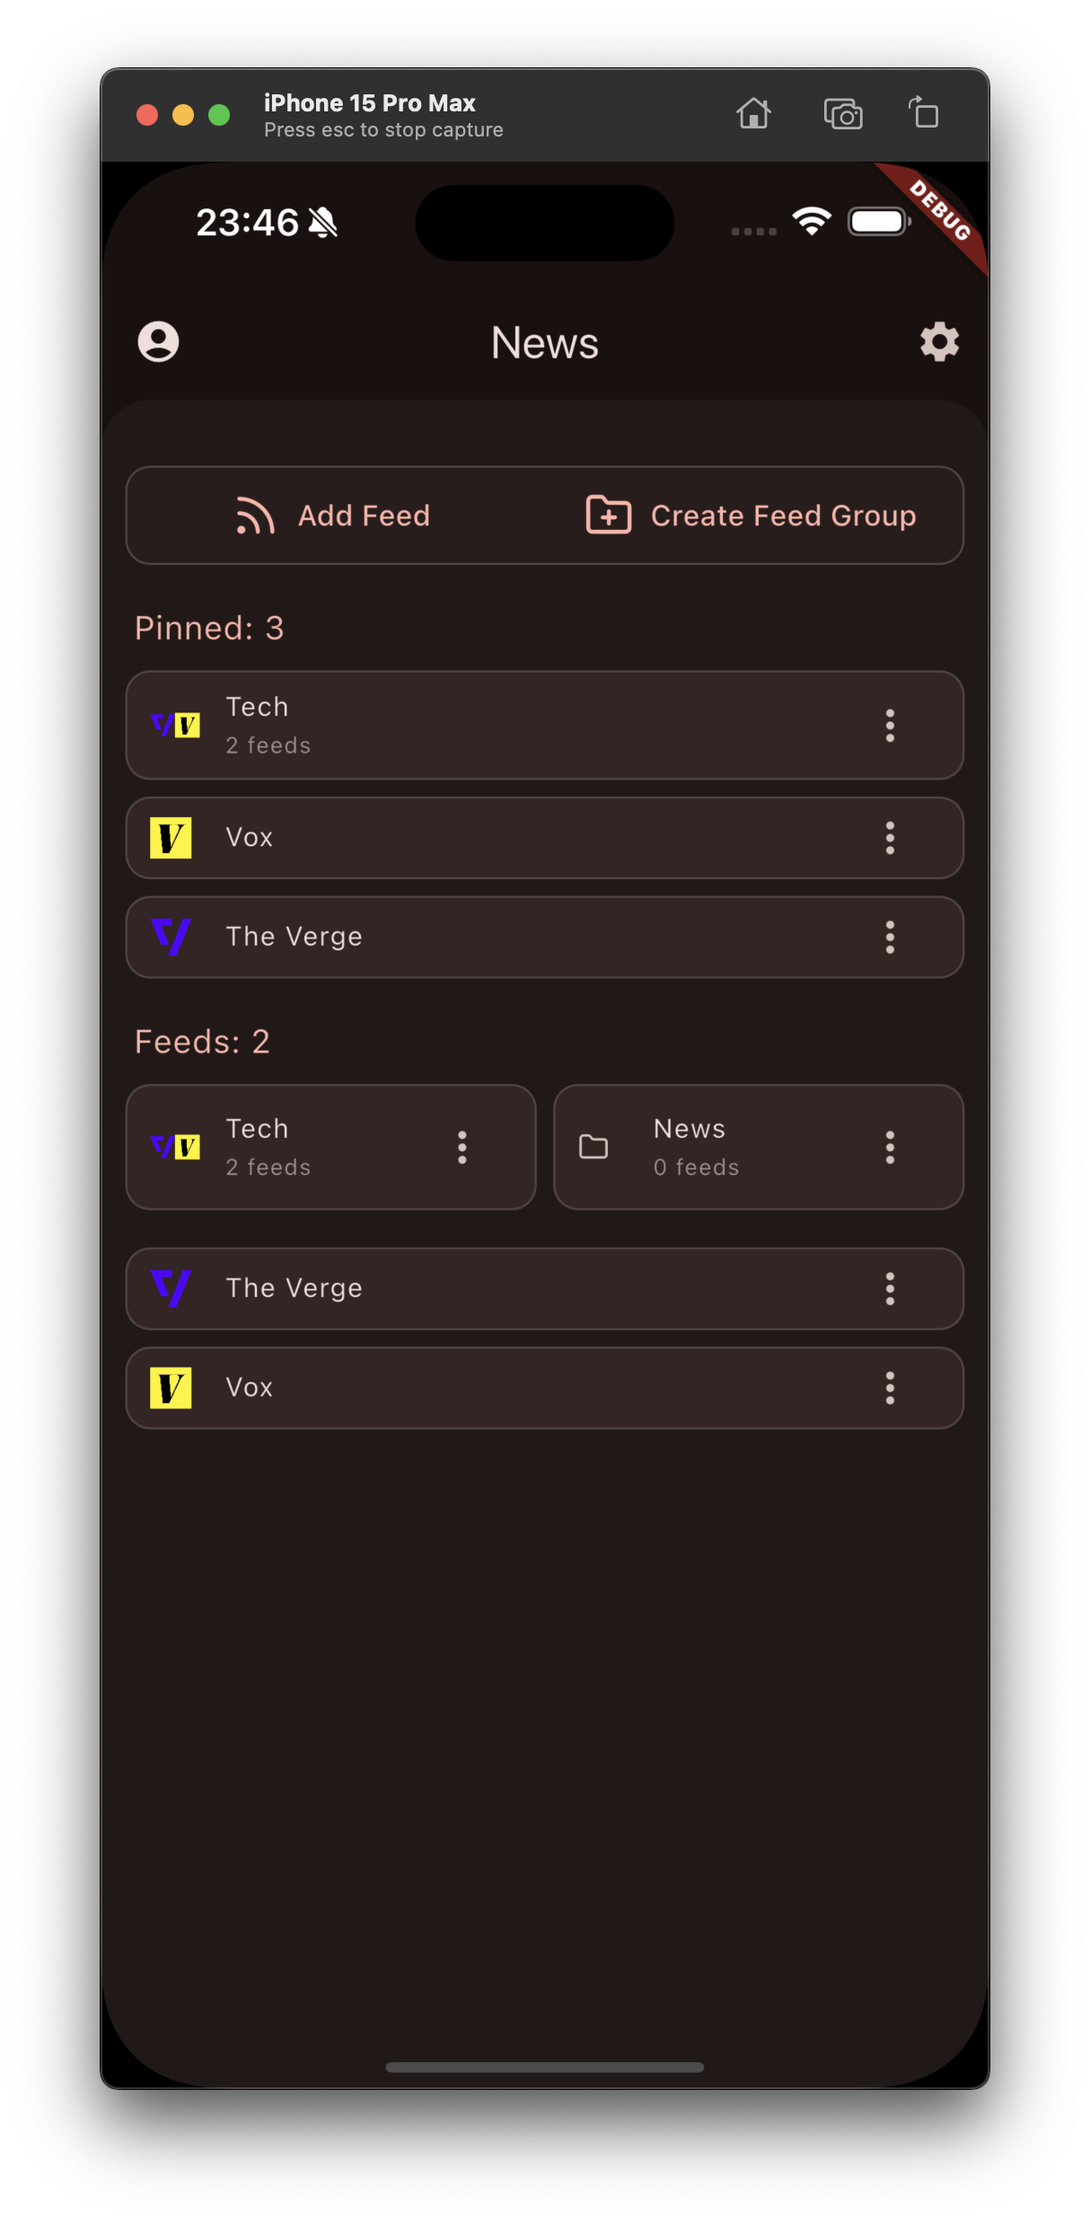
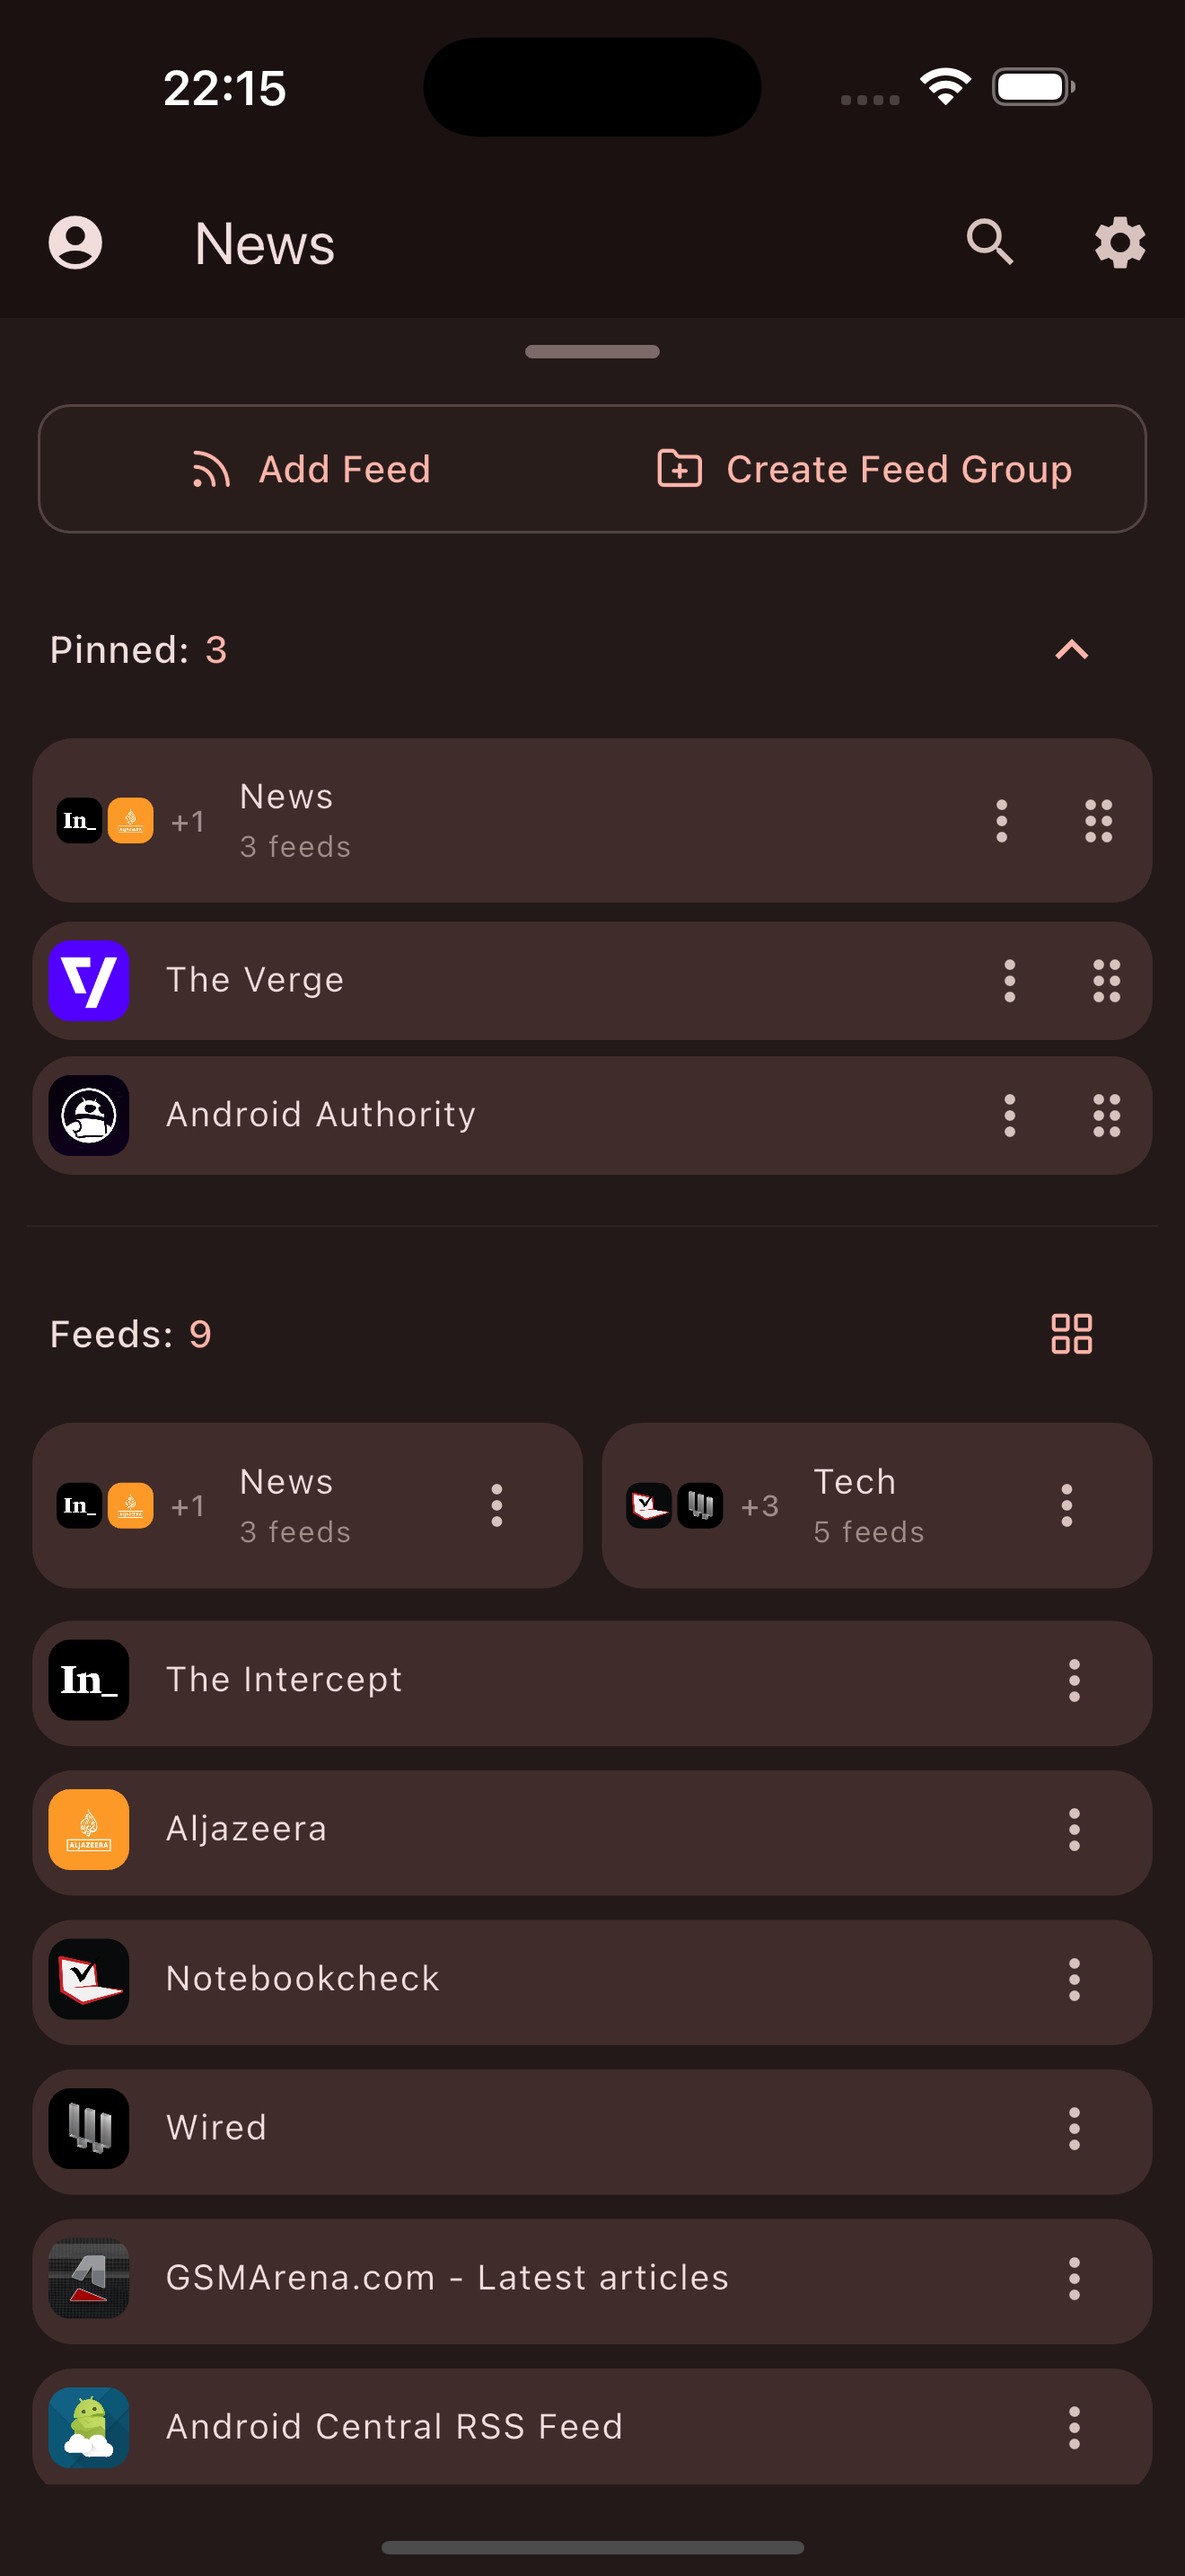
updated readme screenshots

diff --git a/lib/views/settings/settings.dart b/lib/views/settings/settings.dart
@@ -6,7 +6,6 @@ import 'package:bytesized_news/views/auth/sub_views/keywords_bottom_sheet.dart';
 import 'package:file_picker/file_picker.dart';
 import 'package:flutter/foundation.dart';
 import 'package:flutter/material.dart';
-import 'package:flutter_file_dialog/flutter_file_dialog.dart';
 import 'package:flutter_lucide/flutter_lucide.dart';
 import 'package:flutter_mobx/flutter_mobx.dart';
 import 'package:bytesized_news/views/settings/settings_store.dart';
@@ -192,8 +191,7 @@ class _GeneralSettingsState extends State<GeneralSettings> {
                   );
                 }).toList(),
                 onChanged: (String? value) {
-                  settingsStore.keepArticles = KeepArticlesLength
-                      .values[keepArticlesLengthValues.indexOf(value!)];
+                  settingsStore.keepArticles = KeepArticlesLength.values[keepArticlesLengthValues.indexOf(value!)];
                 },
                 value: keepArticlesLengthString(settingsStore.keepArticles)),
           ),
@@ -238,28 +236,21 @@ class _ImportExportSectionState extends State<ImportExportSection> {
             settingsStore.loading = true;
 
             // open file picker
-            final FilePickerResult? result =
-                await FilePicker.platform.pickFiles(
+            final FilePickerResult? result = await FilePicker.platform.pickFiles(
               type: FileType.custom,
               allowedExtensions: ["opml", "xml"],
             );
             if (result != null && result.files.isNotEmpty) {
-              String fileContent =
-                  await result.files.first.xFile.readAsString();
+              String fileContent = await result.files.first.xFile.readAsString();
               // get feeds from opml file
-              var (List<Feed> feeds, List<FeedGroup> feedGroups) =
-                  await OpmlUtils().getFeedsFromOpmlFile(fileContent);
+              var (List<Feed> feeds, List<FeedGroup> feedGroups) = await OpmlUtils().getFeedsFromOpmlFile(fileContent);
 
               settingsStore.loading = false;
               if (kDebugMode) {
                 print("Importing feeds: ${feeds.map((el) => el.name)}");
               }
 
-              List<Feed> loneFeeds = feeds
-                  .where((Feed feed) => feedGroups.every(
-                      (FeedGroup feedGroup) =>
-                          !feedGroup.feedNames.contains(feed.name)))
-                  .toList();
+              List<Feed> loneFeeds = feeds.where((Feed feed) => feedGroups.every((FeedGroup feedGroup) => !feedGroup.feedNames.contains(feed.name))).toList();
 
               // show dialog to confirm import, add the selected feeds to the db
               showDialog(
@@ -276,20 +267,16 @@ class _ImportExportSectionState extends State<ImportExportSection> {
                             mainAxisSize: MainAxisSize.max,
                             crossAxisAlignment: CrossAxisAlignment.start,
                             children: [
-                              Text(
-                                  "Do you want to import ${feeds.length} feeds?"),
+                              Text("Do you want to import ${feeds.length} feeds?"),
                               const SizedBox(height: 5),
                               ...feedGroups.map(
                                 (feedGroup) => ListTile(
                                   title: Text("Group: ${feedGroup.name}"),
-                                  subtitle:
-                                      Text(feedGroup.feedNames.join(", ")),
-                                  selected:
-                                      selectedFeedGroups.contains(feedGroup),
+                                  subtitle: Text(feedGroup.feedNames.join(", ")),
+                                  selected: selectedFeedGroups.contains(feedGroup),
                                   onTap: () {
                                     dialogSetState(() {
-                                      if (selectedFeedGroups
-                                          .contains(feedGroup)) {
+                                      if (selectedFeedGroups.contains(feedGroup)) {
                                         selectedFeedGroups.remove(feedGroup);
                                       } else {
                                         selectedFeedGroups.add(feedGroup);
@@ -297,8 +284,7 @@ class _ImportExportSectionState extends State<ImportExportSection> {
                                     });
                                   },
                                   trailing: Checkbox(
-                                    value:
-                                        selectedFeedGroups.contains(feedGroup),
+                                    value: selectedFeedGroups.contains(feedGroup),
                                     onChanged: (value) {
                                       dialogSetState(() {
                                         if (value!) {
@@ -358,8 +344,7 @@ class _ImportExportSectionState extends State<ImportExportSection> {
                               for (FeedGroup feedGroup in selectedFeedGroups) {
                                 // add the feeds for the feedGroup
                                 for (String feedName in feedGroup.feedNames) {
-                                  Feed feed = feeds.firstWhere(
-                                      (feed) => feed.name == feedName);
+                                  Feed feed = feeds.firstWhere((feed) => feed.name == feedName);
                                   await dbUtils.addFeed(feed);
                                 }
 
@@ -370,8 +355,7 @@ class _ImportExportSectionState extends State<ImportExportSection> {
 
                               ScaffoldMessenger.of(context).showSnackBar(
                                 const SnackBar(
-                                  content:
-                                      Text("Imported feeds from OPML file"),
+                                  content: Text("Imported feeds from OPML file"),
                                 ),
                               );
                             },
@@ -393,23 +377,34 @@ class _ImportExportSectionState extends State<ImportExportSection> {
           onTap: () async {
             String xml = await OpmlUtils().exportToFile();
 
-            if (!await FlutterFileDialog.isPickDirectorySupported()) {
-              throw Exception(
-                  "Pick directory is not supported on this platform");
-            }
+            // if (!await FlutterFileDialog.isPickDirectorySupported()) {
+            //   throw Exception("Pick directory is not supported on this platform");
+            // }
 
-            final DirectoryLocation? pickedDirectory =
-                await FlutterFileDialog.pickDirectory();
+            // final DirectoryLocation? pickedDirectory = await FlutterFileDialog.pickDirectory();
+            String? outputFile = await FilePicker.platform.saveFile(
+              dialogTitle: 'Please select an output file:',
+              fileName: 'bytesized_news_export.xml',
+              bytes: Uint8List.fromList(xml.codeUnits),
+            );
 
-            if (pickedDirectory != null) {
-              await FlutterFileDialog.saveFileToDirectory(
-                directory: pickedDirectory,
-                data: Uint8List.fromList(xml.codeUnits),
-                mimeType: "text/xml",
-                fileName: "bytesized_news_export.xml",
-                replace: true,
+            if (outputFile == null) {
+              // User canceled the picker
+              ScaffoldMessenger.of(context).showSnackBar(
+                const SnackBar(
+                  content: Text("Cancelled export."),
+                ),
               );
             }
+            // if (pickedDirectory != null) {
+            //   await FlutterFileDialog.saveFileToDirectory(
+            //     directory: pickedDirectory,
+            //     data: Uint8List.fromList(xml.codeUnits),
+            //     mimeType: "text/xml",
+            //     fileName: "bytesized_news_export.xml",
+            //     replace: true,
+            //   );
+            // }
 
             ScaffoldMessenger.of(context).showSnackBar(
               const SnackBar(
@@ -449,8 +444,7 @@ class _AboutSectionState extends State<AboutSection> {
                 title: const Text(
                   "Bytesized News",
                 ),
-                subtitle: Text(
-                    "Version: ${snapshot.data?.version}\nBuild: ${snapshot.data?.buildNumber}"),
+                subtitle: Text("Version: ${snapshot.data?.version}\nBuild: ${snapshot.data?.buildNumber}"),
               ),
               ListTile(
                 title: const Text(
@@ -459,8 +453,7 @@ class _AboutSectionState extends State<AboutSection> {
                 subtitle: const Wrap(
                   children: [
                     Text("If you like this app, you can support me at "),
-                    Text("paypal.me/zeykafx",
-                        style: TextStyle(color: Colors.blue)),
+                    Text("paypal.me/zeykafx", style: TextStyle(color: Colors.blue)),
                   ],
                 ),
                 onTap: () {

diff --git a/README.md b/README.md
@@ -21,7 +21,15 @@ The app is built with Flutter and Mobx.
 
 <img alt="Home" src="./.images/home.png" width="300"/>
 
-<img alt="Reader" src="./.images/reader.png" width="300"/>
+### Reader Mode
+With AI summary:
+<img alt="Reader mode with AI summary" src="./.images/reader_ai.png" width="300"/>
+Without:
+<img alt="Reader mode" src="./.images/reader.png" width="300"/>
 
+### Feed Manager
 <img alt="Feed Manager" src="./.images/feed_mngr.png" width="300"/>
 <img alt="Feed Manager options" src="./.images/feed_mngr_2.png" width="300"/>
+
+### Settings
+<img alt="Settings" src="./.images/settings.png" width="300"/>
